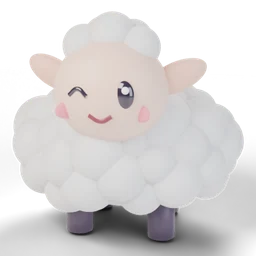
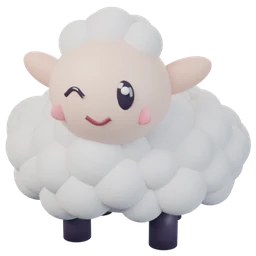
Benya renders without the floor shadow
The soft floor shadow was cut by the picture's square edge. Renders now have
only the lamb on a fully transparent background; the app's own drop shadow
follows his outline.

Claude-Session: https://claude.ai/code/session_01GAx7M6J8NNqBzAC8eCA4hZ

diff --git a/tools/benya-blender.py b/tools/benya-blender.py
@@ -147,7 +147,7 @@ if SKIN == 'joy':
     ball(fc + Vector((0, -0.06, 0)), 0.055, YL, seg=32)
 
 # ---- floor shadow catcher, camera, light
-bpy.ops.mesh.primitive_plane_add(size=12, location=(0, 0, 0)); fl = bpy.context.object; fl.is_shadow_catcher = True
+# no floor: only the lamb itself, so the picture has no shadow square around it
 bpy.ops.object.camera_add(location=(0.75, -3.5, 1.55)); cam = bpy.context.object; sc.camera = cam
 cam.data.lens = 62
 tgt = bpy.data.objects.new('tgt', None); tgt.location = (0, -0.05, 0.6); sc.collection.objects.link(tgt)
